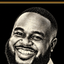
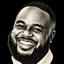
Add the About James page, his links, and a sharper portrait
The hero names the four worlds (JM Set, MKS, FM, Strings). The portrait is
cropped cleanly from the app's badge and shown at its own size instead of
stretched, and the header uses his face as a round mark. James's Spotify,
Instagram and Facebook are linked from the home page and the new /about page,
which embeds his Spotify artist player.

Claude-Session: https://claude.ai/code/session_01JqytGXQ8pK4q9G1w1kHjzZ

diff --git a/site/public/about.html b/site/public/about.html
@@ -1,0 +1,93 @@
+<!doctype html>
+<html lang="en-GB">
+<head>
+<meta charset="utf-8">
+<meta name="viewport" content="width=device-width, initial-scale=1">
+<title>About James Mireku · MIREKU</title>
+<meta name="description" content="James Mireku: keyboard player, sound designer and recording artist, and the musician behind every sound in MIREKU. Listen on Spotify and follow him on Instagram and Facebook.">
+<meta name="theme-color" content="#0a0907">
+<link rel="icon" href="/images/icon.png" type="image/png">
+<link rel="canonical" href="https://jamesmireku.com/about">
+<meta property="og:type" content="profile">
+<meta property="og:title" content="James Mireku">
+<meta property="og:description" content="The musician behind every sound in MIREKU.">
+<meta property="og:image" content="https://jamesmireku.com/images/og.jpg">
+<meta property="og:url" content="https://jamesmireku.com/about">
+<link rel="stylesheet" href="/assets/site.css">
+</head>
+<body>
+
+<header class="top">
+  <div class="wrap">
+    <a class="brand" href="/" aria-label="MIREKU home">
+      <img src="/images/mireku-face.webp" alt="" width="36" height="36">
+      <span><b>MIREKU</b><small>Sound library</small></span>
+    </a>
+    <nav class="nav" aria-label="Main">
+      <a class="hide-sm" href="/">The instrument</a>
+      <a href="/account">Account</a>
+      <a class="btn small" href="/#buy">Get MIREKU</a>
+    </nav>
+  </div>
+</header>
+
+<main>
+
+<section class="hero about-hero">
+  <div class="wrap">
+    <div class="about-id">
+      <div class="portrait"><img src="/images/mireku-badge.webp" width="224" height="181" alt="James Mireku, drawn for the MIREKU badge"></div>
+      <div>
+        <span class="eyebrow">Keys · sound design · recording</span>
+        <h1 class="about-name">James Mireku</h1>
+        <p class="lead">A keyboard player first. Every electric piano, synth, FM key, string, pad and choir in MIREKU was recorded and voiced by James, and the twenty-two performances that come with it are the ones he plays himself.</p>
+        <ul class="social"><li><a href="https://open.spotify.com/artist/1CX7Eg1jka4GqkY7RP4SYp" rel="noopener" target="_blank"><svg viewBox="0 0 24 24" aria-hidden="true"><circle cx="12" cy="12" r="10" fill="currentColor"/><path d="M6.8 9.3c3.6-1 7.6-.7 10.6 1M7.4 12.4c3-.8 6.2-.5 8.7.9M8 15.3c2.4-.6 4.8-.4 6.8.7" fill="none" stroke="#0a0907" stroke-width="1.6" stroke-linecap="round"/></svg><span>Spotify</span></a></li><li><a href="https://www.instagram.com/mr_mireku/" rel="noopener" target="_blank"><svg viewBox="0 0 24 24" aria-hidden="true"><rect x="3" y="3" width="18" height="18" rx="5" fill="none" stroke="currentColor" stroke-width="2"/><circle cx="12" cy="12" r="4.2" fill="none" stroke="currentColor" stroke-width="2"/><circle cx="17.4" cy="6.6" r="1.3" fill="currentColor"/></svg><span>Instagram</span></a></li><li><a href="https://www.facebook.com/jay.keyz.9/" rel="noopener" target="_blank"><svg viewBox="0 0 24 24" aria-hidden="true"><path fill="currentColor" d="M13.5 21v-7.6h2.6l.4-3h-3V8.5c0-.9.3-1.5 1.5-1.5h1.6V4.3c-.3 0-1.2-.1-2.3-.1-2.3 0-3.9 1.4-3.9 4v2.2H7.8v3h2.6V21h3.1z"/></svg><span>Facebook</span></a></li></ul>
+      </div>
+    </div>
+  </div>
+</section>
+
+<section class="block" id="listen">
+  <div class="wrap">
+    <span class="eyebrow">Listen</span>
+    <h2>James on Spotify</h2>
+    <p class="lead">His releases, in his own sound.</p>
+    <div class="player">
+      <iframe title="James Mireku on Spotify" src="https://open.spotify.com/embed/artist/1CX7Eg1jka4GqkY7RP4SYp?theme=0"
+              width="100%" height="452" loading="lazy"
+              allow="autoplay; clipboard-write; encrypted-media; fullscreen; picture-in-picture"></iframe>
+    </div>
+    <p class="muted small-note">The player is Spotify's own. <a href="https://open.spotify.com/artist/1CX7Eg1jka4GqkY7RP4SYp" rel="noopener" target="_blank">Open James's page on Spotify</a> to follow him.</p>
+  </div>
+</section>
+
+<section class="block kente" id="instrument">
+  <div class="wrap">
+    <div class="split">
+      <div>
+        <span class="eyebrow">His sound, in one instrument</span>
+        <h2>MIREKU</h2>
+        <p class="lead">The rig James plays, made so you can play it too.</p>
+        <ul class="knobs"><li>78 instruments</li><li>22 performances</li><li>JM Set</li><li>MKS</li><li>FM</li><li>Strings</li></ul>
+        <p style="margin-top:26px"><a class="btn" href="/">See the instrument</a></p>
+      </div>
+      <div class="frame"><img src="/images/02-jm-set-1600.webp" srcset="/images/02-jm-set-800.webp 800w, /images/02-jm-set-1600.webp 1600w" sizes="(max-width: 880px) 100vw, 640px" width="1600" height="900" loading="lazy" alt="MIREKU's JM SET page with JM Dyno Tines XL"></div>
+    </div>
+  </div>
+</section>
+
+</main>
+
+<footer>
+  <div class="wrap">
+    <span>MIREKU · James Mireku's sounds · made with Amanorsac Studio</span>
+    <nav aria-label="Footer">
+      <a href="/">The instrument</a>
+      <a href="/account">Account</a>
+      <a href="https://amanorsac.studio/privacy">Privacy</a>
+      <a href="https://amanorsac.studio/contact">Contact</a>
+    </nav>
+  </div>
+</footer>
+</body>
+</html>

diff --git a/site/public/index.html b/site/public/index.html
@@ -23,13 +23,13 @@
 <header class="top">
   <div class="wrap">
     <a class="brand" href="/" aria-label="MIREKU home">
-      <img src="images/mireku-mark.webp" alt="" width="40" height="34">
+      <img src="/images/mireku-face.webp" alt="" width="36" height="36">
       <span><b>MIREKU</b><small>Sound library</small></span>
     </a>
     <nav class="nav" aria-label="Main">
       <a class="hide-sm" href="#worlds">Sounds</a>
       <a class="hide-sm" href="#stage">On stage</a>
-      <a class="hide-sm" href="#specs">Specs</a>
+      <a class="hide-sm" href="/about">About James</a>
       <a href="/account">Account</a>
       <a class="btn small" href="#buy">Get MIREKU</a>
     </nav>
@@ -42,7 +42,7 @@
   <div class="wrap">
     <span class="eyebrow">The sounds of James Mireku</span>
     <h1>MIREKU</h1>
-    <p class="by">Keys · strings · pads · choirs</p>
+    <p class="by">JM Set · MKS · FM · Strings</p>
     <p class="lead">James Mireku's keyboard sounds in one instrument, built for the stage. Seventy-eight of his electric pianos, synths, FM keys, strings, pads and choirs, four at a time, with his own performances ready to play.</p>
     <div class="cta">
       <a class="btn" href="#buy" data-buy-label>Get MIREKU</a>
@@ -164,12 +164,14 @@
 
 <section class="block kente" id="james">
   <div class="wrap james">
-    <div class="portrait reveal"><img src="images/mireku-mark.webp" width="480" height="408" alt="James Mireku, drawn for the MIREKU badge"></div>
+    <div class="portrait reveal"><img src="images/mireku-badge.webp" width="224" height="181" alt="James Mireku, drawn for the MIREKU badge"></div>
     <div class="reveal">
       <span class="eyebrow">The musician</span>
       <h2>James Mireku</h2>
       <p class="lead">Every instrument in MIREKU was recorded and voiced by James Mireku, and the twenty-two performances that come with it are his own. It is the rig he plays, made so you can play it too.</p>
       <p class="muted">Made with James by Amanorsac Studio.</p>
+      <ul class="social"><li><a href="https://open.spotify.com/artist/1CX7Eg1jka4GqkY7RP4SYp" rel="noopener" target="_blank"><svg viewBox="0 0 24 24" aria-hidden="true"><circle cx="12" cy="12" r="10" fill="currentColor"/><path d="M6.8 9.3c3.6-1 7.6-.7 10.6 1M7.4 12.4c3-.8 6.2-.5 8.7.9M8 15.3c2.4-.6 4.8-.4 6.8.7" fill="none" stroke="#0a0907" stroke-width="1.6" stroke-linecap="round"/></svg><span>Spotify</span></a></li><li><a href="https://www.instagram.com/mr_mireku/" rel="noopener" target="_blank"><svg viewBox="0 0 24 24" aria-hidden="true"><rect x="3" y="3" width="18" height="18" rx="5" fill="none" stroke="currentColor" stroke-width="2"/><circle cx="12" cy="12" r="4.2" fill="none" stroke="currentColor" stroke-width="2"/><circle cx="17.4" cy="6.6" r="1.3" fill="currentColor"/></svg><span>Instagram</span></a></li><li><a href="https://www.facebook.com/jay.keyz.9/" rel="noopener" target="_blank"><svg viewBox="0 0 24 24" aria-hidden="true"><path fill="currentColor" d="M13.5 21v-7.6h2.6l.4-3h-3V8.5c0-.9.3-1.5 1.5-1.5h1.6V4.3c-.3 0-1.2-.1-2.3-.1-2.3 0-3.9 1.4-3.9 4v2.2H7.8v3h2.6V21h3.1z"/></svg><span>Facebook</span></a></li></ul>
+      <p><a class="btn ghost small" href="/about">More about James</a></p>
     </div>
   </div>
 </section>
@@ -218,6 +220,7 @@
   <div class="wrap">
     <span>MIREKU · James Mireku's sounds · made with Amanorsac Studio</span>
     <nav aria-label="Footer">
+      <a href="/about">About James</a>
       <a href="/account">Account</a>
       <a href="https://amanorsac.studio/legal">Terms</a>
       <a href="https://amanorsac.studio/privacy">Privacy</a>

diff --git a/site/public/assets/site.css b/site/public/assets/site.css
@@ -64,7 +64,7 @@ p { margin: 0 0 1em; }
 }
 .top .wrap { display: flex; align-items: center; gap: 18px; height: 64px; }
 .brand { display: flex; align-items: center; gap: 10px; text-decoration: none; color: var(--gold-hi); }
-.brand img { width: 40px; height: 34px; object-fit: cover; border-radius: 6px; border: 1px solid var(--gold-lo); }
+.brand img { width: 36px; height: 36px; object-fit: cover; border-radius: 50%; border: 1px solid var(--gold-lo); background: #000; }
 .brand b { font: 700 24px/1 "Barlow SC", sans-serif; letter-spacing: .08em; }
 .brand small { display: block; font: 600 10px/1.2 "Barlow SC", sans-serif; letter-spacing: .24em; color: var(--muted); }
 .nav { margin-left: auto; display: flex; gap: 22px; align-items: center; }
@@ -189,9 +189,33 @@ section.block { padding: clamp(64px, 9vw, 110px) 0; }
 .gallery .frame img { aspect-ratio: auto; }
 
 /* ---------- James ---------- */
-.james { display: grid; grid-template-columns: 260px 1fr; gap: 40px; align-items: center; }
-.james .portrait { border-radius: var(--r); border: 1px solid var(--gold-lo); overflow: hidden; box-shadow: 0 20px 60px -20px rgba(217,164,65,.35); background: #000; }
-@media (max-width: 720px) { .james { grid-template-columns: 1fr; } .james .portrait { max-width: 240px; } }
+.james { display: grid; grid-template-columns: 248px 1fr; gap: 44px; align-items: center; }
+/* The portrait is the app's badge drawing, 224 px wide: shown at that size in a
+   thin gold frame, never stretched, so it stays sharp. */
+.portrait { width: 248px; padding: 11px; border-radius: 18px; border: 1px solid var(--gold);
+            background: #000; box-shadow: 0 0 0 4px #000, 0 0 0 5px var(--gold-lo), 0 24px 60px -24px rgba(217,164,65,.45); }
+.portrait img { width: 224px; height: auto; border-radius: 8px; }
+@media (max-width: 720px) { .james { grid-template-columns: 1fr; } }
+
+/* ---------- James's links ---------- */
+.social { list-style: none; display: flex; flex-wrap: wrap; gap: 10px; padding: 0; margin: 20px 0 22px; }
+.social a { display: inline-flex; align-items: center; gap: 9px; min-height: 42px; padding: 0 16px 0 12px;
+            border: 1px solid var(--gold-lo); border-radius: 999px; text-decoration: none; color: var(--gold-hi);
+            font: 600 14px/1 "Barlow SC", sans-serif; letter-spacing: .12em; text-transform: uppercase; background: rgba(217,164,65,.05); }
+.social a:hover { color: #fff; border-color: var(--gold); background: rgba(217,164,65,.12); }
+.social svg { width: 20px; height: 20px; }
+
+/* ---------- about page ---------- */
+.about-hero .wrap { text-align: left; }
+.about-hero .lead { text-align: left; margin: 0; }
+.about-id { display: grid; grid-template-columns: 248px 1fr; gap: 48px; align-items: center; }
+.hero .about-name { font-size: clamp(42px, 6.4vw, 78px); letter-spacing: .06em; margin: 4px 0 18px;
+              background: linear-gradient(180deg, #fff3cf 0%, var(--gold-hi) 40%, var(--gold) 75%, #9a6d22 100%);
+              -webkit-background-clip: text; background-clip: text; color: transparent; }
+@media (max-width: 760px) { .about-id { grid-template-columns: 1fr; gap: 28px; } }
+.player { margin-top: 26px; border-radius: 16px; overflow: hidden; border: 1px solid var(--line); background: #121212; }
+.player iframe { display: block; border: 0; }
+.small-note { font-size: 14px; margin-top: 14px; }
 
 /* ---------- specs ---------- */
 .specs { width: 100%; border-collapse: collapse; margin-top: 28px; font-size: 15px; }

diff --git a/site/public/account.html b/site/public/account.html
@@ -14,11 +14,12 @@
 <header class="top">
   <div class="wrap">
     <a class="brand" href="/" aria-label="MIREKU home">
-      <img src="images/mireku-mark.webp" alt="" width="40" height="34">
+      <img src="/images/mireku-face.webp" alt="" width="36" height="36">
       <span><b>MIREKU</b><small>Sound library</small></span>
     </a>
     <nav class="nav" aria-label="Main">
       <a href="/">Home</a>
+      <a href="/about" class="hide-sm">About James</a>
       <a href="/#buy" class="hide-sm">Get MIREKU</a>
     </nav>
   </div>
